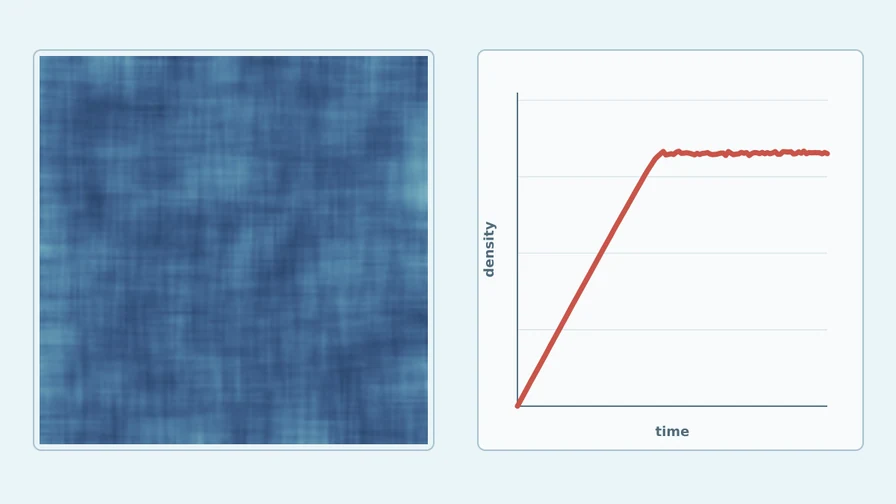
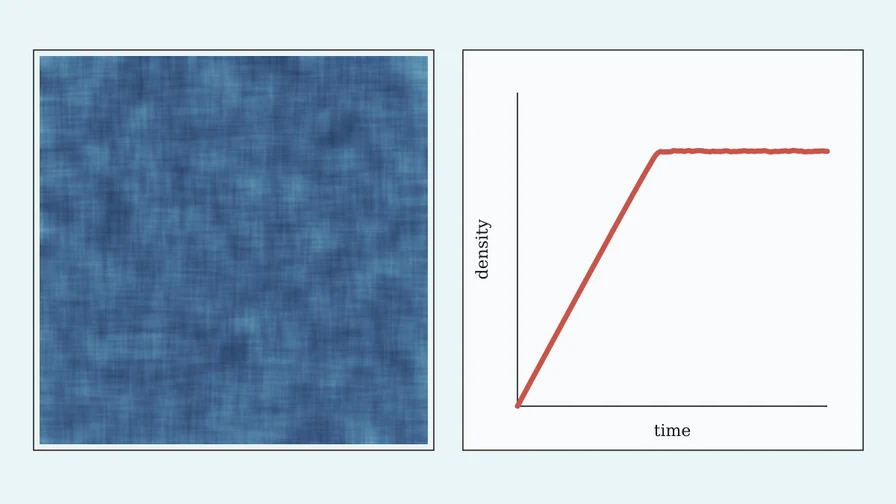
Refine and enlarge ARW hockey animation

diff --git a/tools/generate_arw_hockey.js b/tools/generate_arw_hockey.js
@@ -119,6 +119,29 @@ const palette = [
   [1.00, [22, 31, 52]],
 ];
 
+const coarseGrainSpecs = [
+  { slug: "half_log", multiplier: 0.5, label: "1/2 log2(n)" },
+  { slug: "one_log", multiplier: 1, label: "log2(n)" },
+  { slug: "two_log", multiplier: 2, label: "2 log2(n)" },
+  { slug: "four_log", multiplier: 4, label: "4 log2(n)" },
+];
+
+function coarseGrainWindow(size, multiplier) {
+  let windowSize = Math.max(1, Math.round(multiplier * Math.log2(size)));
+  if (windowSize % 2 === 0) windowSize += 1;
+  return windowSize;
+}
+
+function parseArguments(argv) {
+  const variantsIndex = argv.indexOf("--variants-dir");
+  if (variantsIndex < 0) return { variantsDirectory: null };
+  const requestedPath = argv[variantsIndex + 1];
+  if (!requestedPath || requestedPath.startsWith("--")) {
+    throw new Error("--variants-dir needs an output directory");
+  }
+  return { variantsDirectory: path.resolve(requestedPath) };
+}
+
 function colorForDensity(value) {
   const density = Math.max(0, Math.min(1, value));
   let index = 0;
@@ -180,35 +203,90 @@ function overlayFor(samples, sampleIndex, size, width, height) {
     const point = plotPoint(sample, siteCount, plot);
     return `${point.x.toFixed(1)},${point.y.toFixed(1)}`;
   }).join(" ");
-  const horizontalRules = [0.2, 0.4, 0.6, 0.8].map((density) => {
-    const y = plot.bottom - (density / plot.yMax) * plot.height;
-    return `<line x1="${plot.left}" y1="${y}" x2="${plot.left + plot.width}" y2="${y}" class="rule"/>`;
-  }).join("");
 
   return Buffer.from(`
     <svg xmlns="http://www.w3.org/2000/svg" width="${width}" height="${height}" viewBox="0 0 ${width} ${height}">
       <style>
-        .axis{font:600 18px Inter,ui-sans-serif,system-ui,-apple-system,"Segoe UI",Arial,sans-serif;fill:#506a79}
-        .rule{stroke:#d5e3e9;stroke-width:1.2}
+        .axis{font:400 22px Georgia,"Times New Roman","Liberation Serif",serif;fill:#171717}
       </style>
-      <rect x="45" y="67" width="536" height="536" rx="10" fill="none" stroke="#a9c3d1" stroke-width="2"/>
-      <rect x="640" y="67" width="516" height="536" rx="10" fill="#f8fbfc" stroke="#a9c3d1" stroke-width="2"/>
-      ${horizontalRules}
-      <line x1="${plot.left}" y1="${plot.bottom}" x2="${plot.left + plot.width}" y2="${plot.bottom}" stroke="#587485" stroke-width="2"/>
-      <line x1="${plot.left}" y1="${plot.bottom}" x2="${plot.left}" y2="${plot.bottom - plot.height}" stroke="#587485" stroke-width="2"/>
+      <rect x="45" y="67" width="536" height="536" fill="none" stroke="#171717" stroke-width="1.5"/>
+      <rect x="620" y="67" width="536" height="536" fill="#f8fbfc" stroke="#171717" stroke-width="1.5"/>
+      <line x1="${plot.left}" y1="${plot.bottom}" x2="${plot.left + plot.width}" y2="${plot.bottom}" stroke="#171717" stroke-width="1.6"/>
+      <line x1="${plot.left}" y1="${plot.bottom}" x2="${plot.left}" y2="${plot.bottom - plot.height}" stroke="#171717" stroke-width="1.6"/>
       <polyline points="${line}" fill="none" stroke="#c95449" stroke-width="7" stroke-linecap="round" stroke-linejoin="round"/>
       <text class="axis" x="${plot.left + plot.width / 2}" y="584" text-anchor="middle">time</text>
-      <text class="axis" x="661" y="${plot.bottom - plot.height / 2}" text-anchor="middle" transform="rotate(-90 661 ${plot.bottom - plot.height / 2})">density</text>
+      <text class="axis" x="653" y="${plot.bottom - plot.height / 2}" text-anchor="middle" transform="rotate(-90 653 ${plot.bottom - plot.height / 2})">density</text>
     </svg>
   `);
 }
 
+async function renderVariant({
+  samples,
+  size,
+  spec,
+  temporaryRoot,
+  gifOutput,
+  stillOutput,
+}) {
+  const windowSize = coarseGrainWindow(size, spec.multiplier);
+  const radius = (windowSize - 1) / 2;
+  const growthFrames = samples.length;
+  const holdFrames = 14;
+  const frameWidth = 1200;
+  const frameHeight = 675;
+  const heatmapSize = 520;
+  const directory = path.join(temporaryRoot, spec.slug);
+  fs.mkdirSync(directory, { recursive: true });
+  fs.mkdirSync(path.dirname(gifOutput), { recursive: true });
+
+  let finalFrame;
+  for (let frame = 0; frame < growthFrames + holdFrames; frame += 1) {
+    const sampleIndex = Math.min(frame, growthFrames - 1);
+    const sample = samples[sampleIndex];
+    const densityPixels = localDensityRaster(sample.sleeping, size, radius);
+    const densityImage = await sharp(densityPixels, {
+      raw: { width: size, height: size, channels: 4 },
+    }).resize(heatmapSize, heatmapSize, { kernel: "cubic" }).png({ compressionLevel: 3 }).toBuffer();
+    const overlay = overlayFor(samples, sampleIndex, size, frameWidth, frameHeight);
+    const filename = path.join(directory, `frame-${String(frame).padStart(3, "0")}.png`);
+
+    await sharp({
+      create: { width: frameWidth, height: frameHeight, channels: 4, background: "#eaf4f8" },
+    }).composite([
+      { input: densityImage, left: 53, top: 75 },
+      { input: overlay, left: 0, top: 0 },
+    ]).png({ compressionLevel: 3 }).toFile(filename);
+    finalFrame = filename;
+    process.stdout.write(
+      `\r${spec.label} (${windowSize} x ${windowSize}): rendering ${frame + 1}/${growthFrames + holdFrames}`,
+    );
+  }
+  process.stdout.write("\n");
+
+  if (stillOutput) {
+    fs.mkdirSync(path.dirname(stillOutput), { recursive: true });
+    await sharp(finalFrame).resize(896, 504, { fit: "fill", kernel: "lanczos3" })
+      .webp({ quality: 88, effort: 5 }).toFile(stillOutput);
+  }
+
+  const encoding = spawnSync("ffmpeg", [
+    "-hide_banner", "-loglevel", "error", "-y",
+    "-framerate", "10",
+    "-i", path.join(directory, "frame-%03d.png"),
+    "-filter_complex",
+    "fps=8,scale=896:504:flags=lanczos,split[s0][s1];[s0]palettegen=max_colors=80:stats_mode=diff[p];[s1][p]paletteuse=dither=bayer:bayer_scale=4:diff_mode=rectangle",
+    "-loop", "0", gifOutput,
+  ], { encoding: "utf8" });
+  if (encoding.status !== 0) throw new Error(encoding.stderr || "ffmpeg failed");
+
+  return { gifOutput, stillOutput, windowSize };
+}
+
 async function main() {
-  const size = 128;
-  const radius = Math.ceil(Math.log2(size));
+  const options = parseArguments(process.argv.slice(2));
+  const size = 256;
   const targetDensity = 1.5;
   const growthFrames = 120;
-  const holdFrames = 14;
   const model = new DrivenDissipativeARW(size, 1, 0xa41c927);
   const targetAdditions = Math.round(targetDensity * model.count);
   const samples = [model.snapshot()];
@@ -222,56 +300,41 @@ async function main() {
   process.stdout.write("\n");
   const finalSample = samples[samples.length - 1];
   process.stdout.write(
-    `final retained density ${(finalSample.retained / model.count).toFixed(3)}; `
-    + `smoothing window ${2 * radius + 1} x ${2 * radius + 1}\n`,
+    `final retained density ${(finalSample.retained / model.count).toFixed(3)}\n`,
   );
 
-  const frameWidth = 1200;
-  const frameHeight = 675;
-  const heatmapSize = 520;
-  const directory = fs.mkdtempSync(path.join(os.tmpdir(), "arw-hockey-"));
-  const outputDirectory = path.join(__dirname, "..", "math_images");
-  const gifOutput = path.join(outputDirectory, "arw_hockey.gif");
-  const stillOutput = path.join(outputDirectory, "arw_hockey_static.webp");
+  const temporaryRoot = fs.mkdtempSync(path.join(os.tmpdir(), "arw-hockey-"));
+  const siteOutputDirectory = path.join(__dirname, "..", "math_images");
+  const siteGifOutput = path.join(siteOutputDirectory, "arw_hockey.gif");
+  const siteStillOutput = path.join(siteOutputDirectory, "arw_hockey_static.webp");
+  const specs = options.variantsDirectory
+    ? coarseGrainSpecs
+    : coarseGrainSpecs.filter((spec) => spec.slug === "two_log");
 
   try {
-    let finalFrame;
-    for (let frame = 0; frame < growthFrames + holdFrames; frame += 1) {
-      const sampleIndex = Math.min(frame, growthFrames - 1);
-      const sample = samples[sampleIndex];
-      const densityPixels = localDensityRaster(sample.sleeping, size, radius);
-      const densityImage = await sharp(densityPixels, {
-        raw: { width: size, height: size, channels: 4 },
-      }).resize(heatmapSize, heatmapSize, { kernel: "cubic" }).png({ compressionLevel: 3 }).toBuffer();
-      const overlay = overlayFor(samples, sampleIndex, size, frameWidth, frameHeight);
-      const filename = path.join(directory, `frame-${String(frame).padStart(3, "0")}.png`);
+    for (const spec of specs) {
+      const variantPrefix = options.variantsDirectory
+        ? path.join(options.variantsDirectory, `arw_hockey_${spec.slug}`)
+        : path.join(siteOutputDirectory, "arw_hockey");
+      const result = await renderVariant({
+        samples,
+        size,
+        spec,
+        temporaryRoot,
+        gifOutput: `${variantPrefix}.gif`,
+        stillOutput: `${variantPrefix}_static.webp`,
+      });
+      process.stdout.write(
+        `${result.gifOutput}\n${result.stillOutput}\n`,
+      );
 
-      await sharp({
-        create: { width: frameWidth, height: frameHeight, channels: 4, background: "#eaf4f8" },
-      }).composite([
-        { input: densityImage, left: 53, top: 75 },
-        { input: overlay, left: 0, top: 0 },
-      ]).png({ compressionLevel: 3 }).toFile(filename);
-      finalFrame = filename;
-      process.stdout.write(`\rrendering ${frame + 1}/${growthFrames + holdFrames}`);
+      if (options.variantsDirectory && spec.slug === "two_log") {
+        fs.copyFileSync(result.gifOutput, siteGifOutput);
+        fs.copyFileSync(result.stillOutput, siteStillOutput);
+      }
     }
-    process.stdout.write("\n");
-
-    await sharp(finalFrame).resize(896, 504, { fit: "fill", kernel: "lanczos3" })
-      .webp({ quality: 88, effort: 5 }).toFile(stillOutput);
-
-    const encoding = spawnSync("ffmpeg", [
-      "-hide_banner", "-loglevel", "error", "-y",
-      "-framerate", "10",
-      "-i", path.join(directory, "frame-%03d.png"),
-      "-filter_complex",
-      "fps=8,scale=896:504:flags=lanczos,split[s0][s1];[s0]palettegen=max_colors=80:stats_mode=diff[p];[s1][p]paletteuse=dither=bayer:bayer_scale=4:diff_mode=rectangle",
-      "-loop", "0", gifOutput,
-    ], { encoding: "utf8" });
-    if (encoding.status !== 0) throw new Error(encoding.stderr || "ffmpeg failed");
-    process.stdout.write(`${gifOutput}\n${stillOutput}\n`);
   } finally {
-    fs.rmSync(directory, { recursive: true, force: true });
+    fs.rmSync(temporaryRoot, { recursive: true, force: true });
   }
 }
 

diff --git a/research.html b/research.html
@@ -8,7 +8,7 @@
       name="description"
       content="Research in activated random walk, shifts of finite type, random matrices, stochastic processes, and random walks."
     >
-    <link rel="preload" as="image" href="math_images/arw_hockey.gif" type="image/gif">
+    <link rel="preload" as="image" href="math_images/arw_hockey.gif?v=20260826-256" type="image/gif">
     <link rel="stylesheet" href="style.css">
     <script defer src="site.js"></script>
     <script async src="https://www.googletagmanager.com/gtag/js?id=G-8KNCG5G8RV"></script>
@@ -106,9 +106,9 @@
           <figure class="project-figure">
             <div class="figure-frame hockey-frame">
               <picture>
-                <source media="(prefers-reduced-motion: reduce)" srcset="math_images/arw_hockey_static.webp">
+                <source media="(prefers-reduced-motion: reduce)" srcset="math_images/arw_hockey_static.webp?v=20260826-256">
                 <img
-                  src="math_images/arw_hockey.gif"
+                  src="math_images/arw_hockey.gif?v=20260826-256"
                   alt="Animated local-density heat map beside a graph of retained particle density over time for driven-dissipative activated random walk"
                   decoding="async"
                 >
